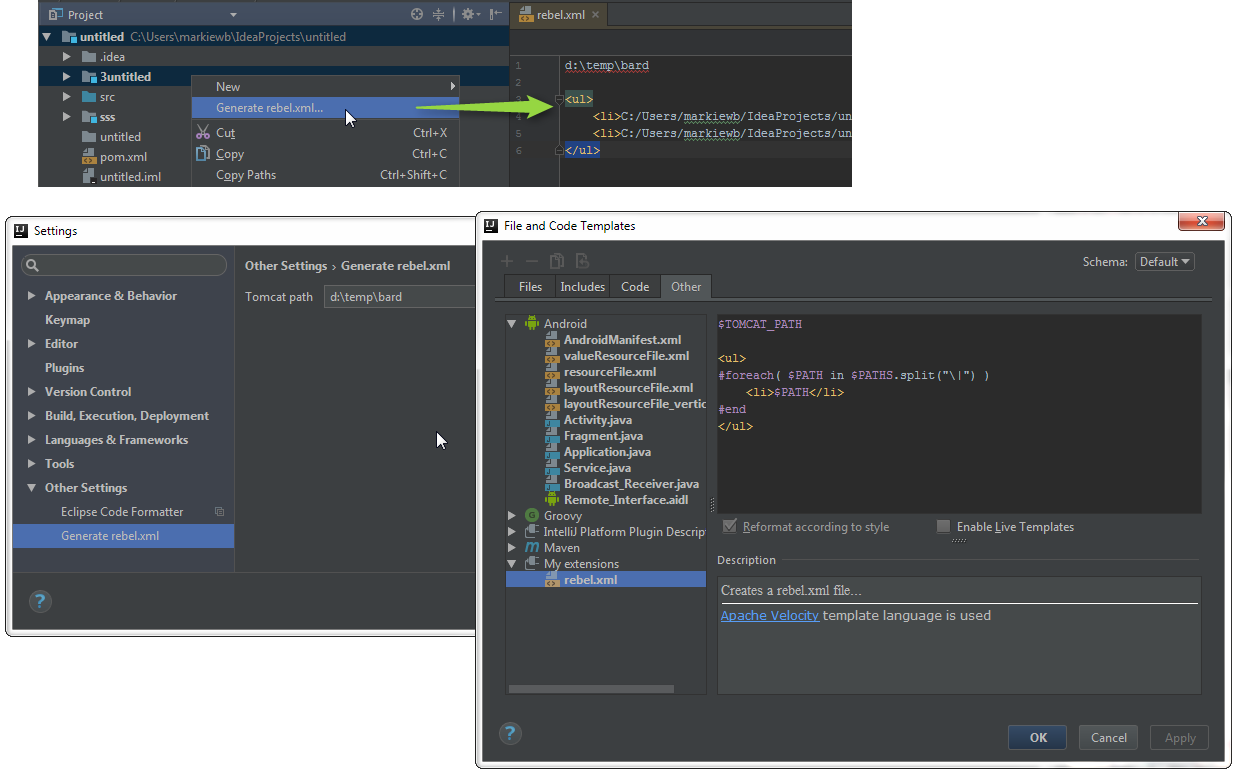
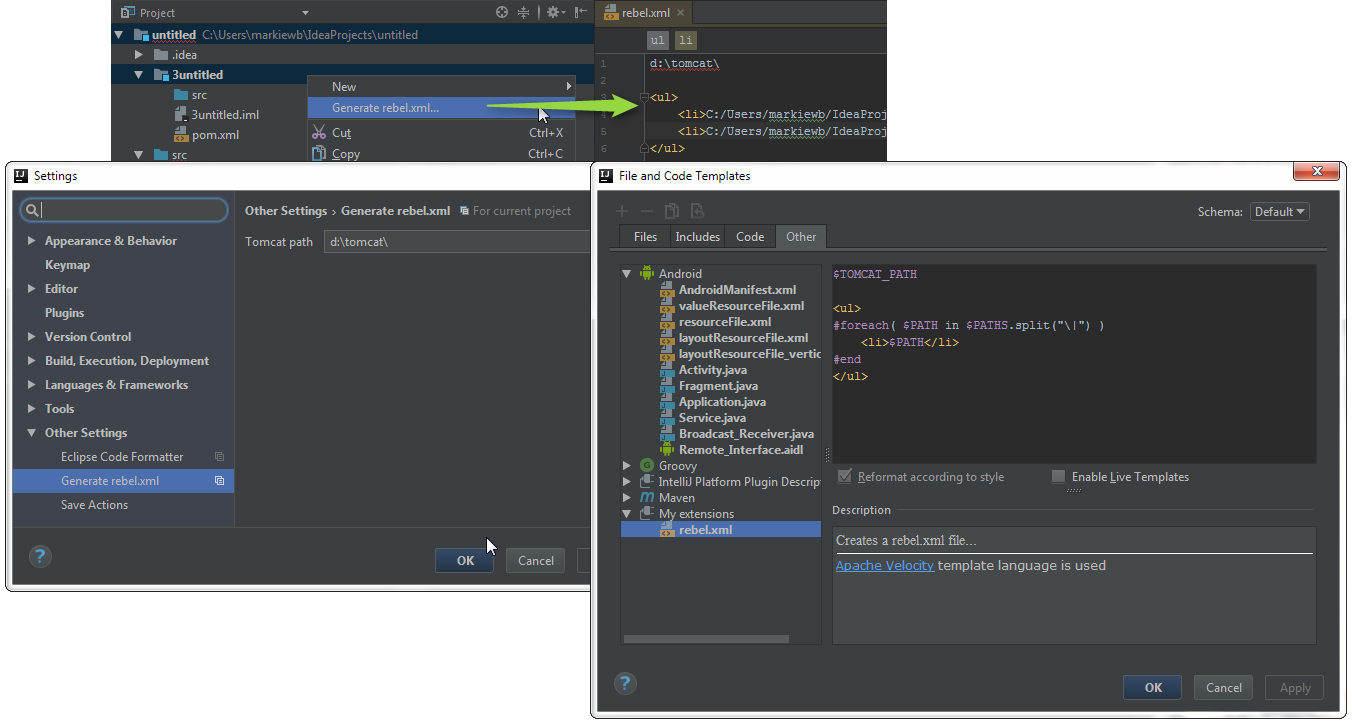
Make settings per project type and enable the "for current project" indicator in the settings
See https://intellij-support.jetbrains.com/hc/en-us/community/posts/115000067024-How-to-enable-for-current-project-indicator-when-registering-a-projectConfigurable-

Changed region(s): [[0.0, 0.0, 1.0, 1.0]]

diff --git a/src/com/example/intellijidea/plugins/generaterebelxml/options/Settings.java b/src/com/example/intellijidea/plugins/generaterebelxml/options/Settings.java
@@ -2,17 +2,14 @@ package com.example.intellijidea.plugins.generaterebelxml.options;
 
 import com.intellij.openapi.components.PersistentStateComponent;
 import com.intellij.openapi.components.State;
-import com.intellij.openapi.components.Storage;
-import com.intellij.openapi.components.StoragePathMacros;
 import com.intellij.util.xmlb.XmlSerializerUtil;
 import org.jetbrains.annotations.Nullable;
 
 /**
  * http://www.jetbrains.org/intellij/sdk/docs/basics/persisting_state_of_components.html
+ * Project level by default. Will be saved in .idea/misc.xml
  */
-@State(name = "GenerateRebelXML",
-        storages = {@Storage(StoragePathMacros.WORKSPACE_FILE)}
-)
+@State(name = "GenerateRebelXMLSettings")
 public class Settings implements PersistentStateComponent<Settings> {
 
     private String tomcatPath;

diff --git a/README.md b/README.md
@@ -7,10 +7,14 @@ It adds an action in the Maven modules context menu (within the project view) to
 It shows the usage some IDEA APIs:
 * How to add an action to the context menu
 * How to create a context sensitive action. The action is only activated for Maven-based module nodes. 
-* How to add an option panel - see ```projectConfigurable``` in the ```plugin.xml```
+* How to add an project specific option panel including "for current project" indicator - see ```projectConfigurable``` in the ```plugin.xml```
 * How to register and use a project based settings service. See ```projectService``` in the ```plugin.xml```
 * How to register a file template. See ```fileTemplateGroup``` in ```plugin.xml``` and ```resources/fileTemplates.j2ee```
 
 <img src="https://raw.githubusercontent.com/markiewb/idea-create-from-template-plugin/master/example.png"/>
 
-License: Apache 2.0
+## Updates in 1.1 
+* Make settings per project type and enable the "for current project" indicator in the settings
+
+## License
+Apache 2.0
